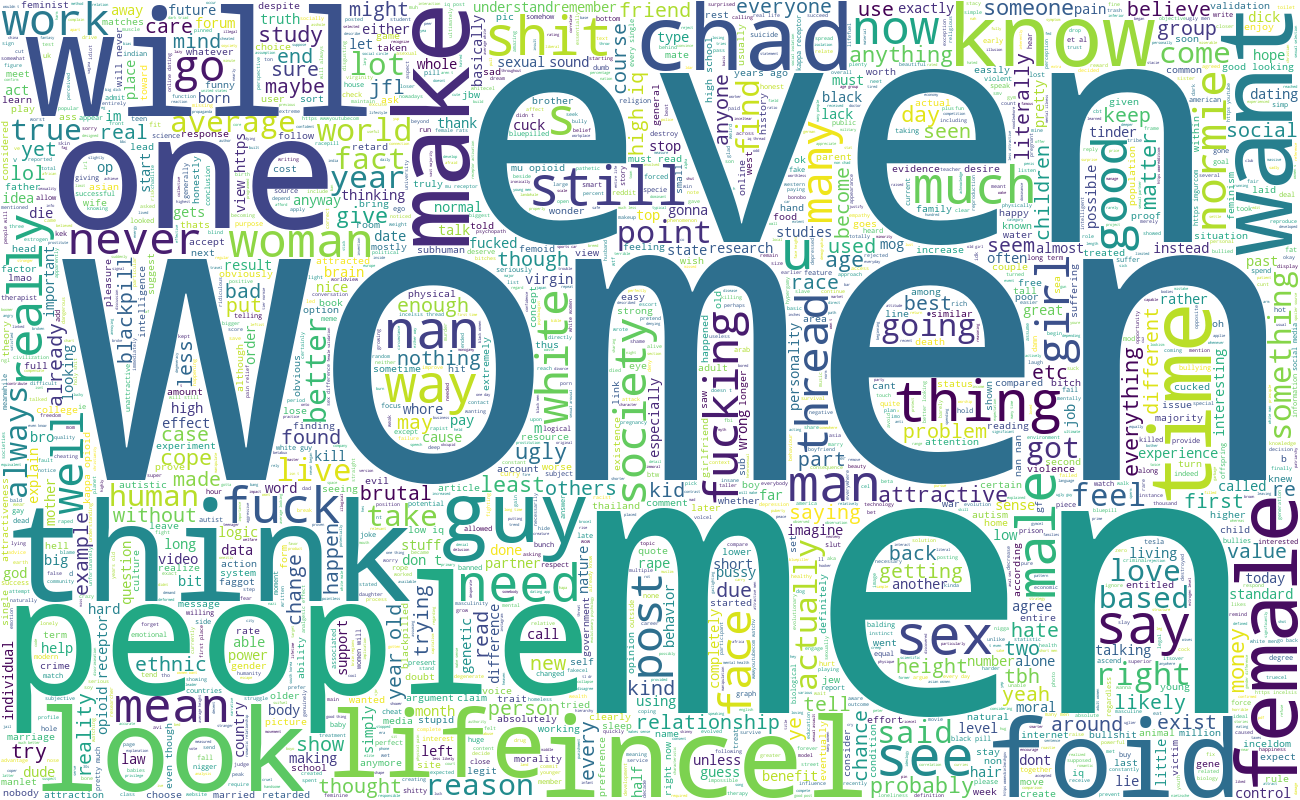
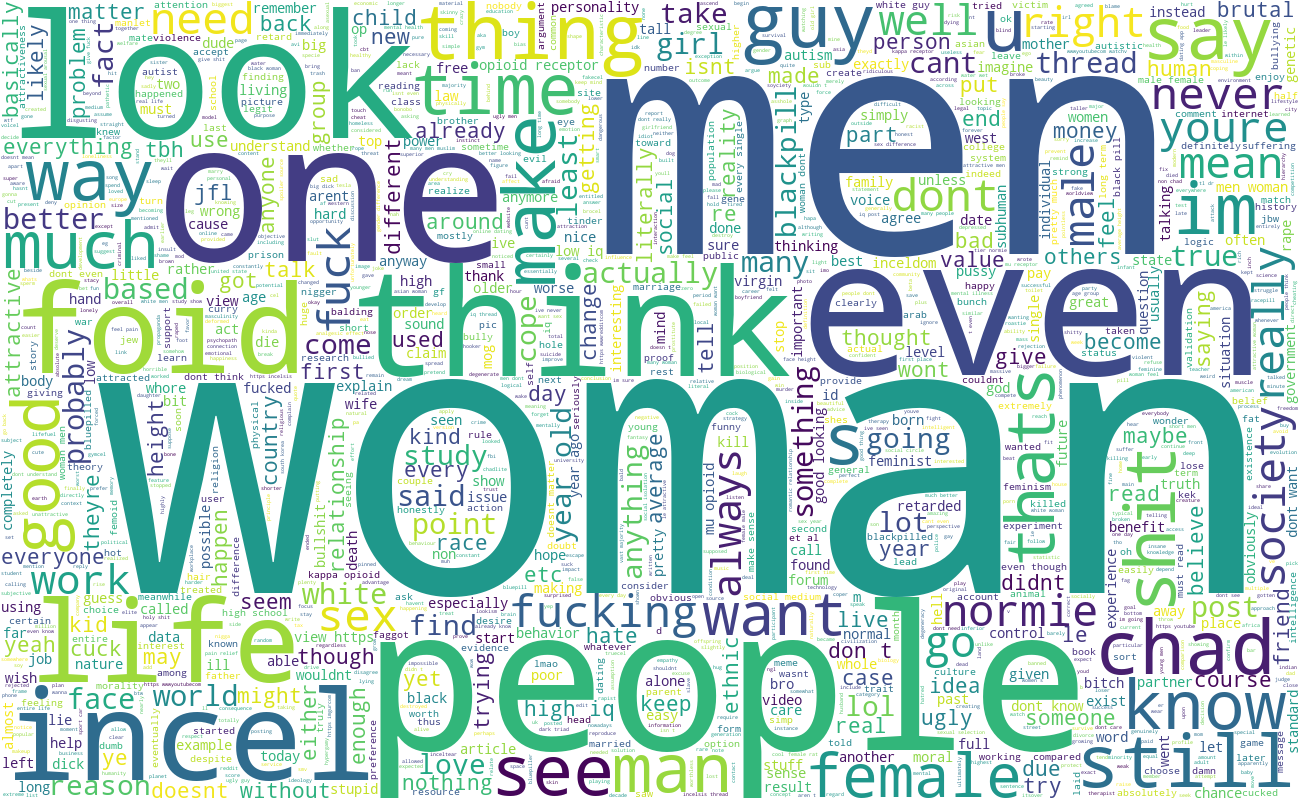
fixed nan issue

diff --git a/analyze.py b/analyze.py
@@ -1,12 +1,13 @@
+from datetime import datetime
 from pathlib import Path
 
 import numpy as np
 import pandas as pd
 
+from src.analysis.preprocess import preprocess
 from src.analysis.topic_modelling import topic_model_lda, topic_model_nmf  # type: ignore
 from src.analysis.wordcloud import wordcloud  # type: ignore
 from src.utils import load_data_from_csv
-import re
 
 pd.options.plotting.backend = "plotly"
 
@@ -24,6 +25,12 @@ if __name__ == "__main__":
         ],
     )
 
+    # Preprocess data
+    print("Preprocessing data...")
+    start = datetime.now()
+    preprocess(posts)
+    print(f"Preprocessing took: {datetime.now() - start}\n")
+
     # Compute unique authors from posts
     unique_authors = posts["author"].unique()  # type: ignore
     users = pd.DataFrame(unique_authors, columns=["author"])
@@ -39,26 +46,12 @@ if __name__ == "__main__":
     print(users.describe(include="all"))
     print(users[users["num_posts_by_user"] > 50].count())  # type: ignore
 
-    # --- Preprocess the data ---
-    # Remove punctuation
-    posts["content"] = posts["content"].map(lambda x: re.sub("[,\\.!?]", "", str(x)))  # type: ignore
-    # Remove urls
-    posts["content"] = posts["content"].map(lambda x: re.sub(r"^https?:\/\/.*[\r\n]*", "", str(x)))  # type: ignore
-    # Convert the titles to lowercase and strip leading/trailing white space
-    posts["content"] = posts["content"].map(lambda x: x.lower().strip())  # type: ignore
-
-    posts["content"] = posts["content"].replace("", np.nan)  # type: ignore
-
-    posts.dropna(  # type: ignore
-        subset=["content"],
-        inplace=True,
-    )
     # print number of nans
     # print(posts["content"].isna().sum())  # type: ignore
     # print(posts["content"].count())  # type: ignore
     # print(posts)
     # print(posts.describe())
 
-    topic_model_nmf(posts["content"])
+    # topic_model_nmf(posts["content"])
     # topic_model_lda(posts["content"])
-    # wordcloud(posts["content"])  # type: ignore
+    wordcloud(posts["content"])

diff --git a/src/analysis/preprocess.py b/src/analysis/preprocess.py
@@ -1,0 +1,53 @@
+import nltk
+import numpy as np
+import pandas as pd
+import re
+
+
+def lemmatize(text):
+    lemmatizer = nltk.WordNetLemmatizer()
+    wstokenizer = nltk.WhitespaceTokenizer()
+    return " ".join([lemmatizer.lemmatize(word) for word in wstokenizer.tokenize(text)])
+
+
+def preprocess(data: pd.DataFrame) -> None:
+    # Assure that the content column is of type string
+    data["content"] = data["content"].astype(str)
+
+    # Remove punctuation
+    data["content"] = data["content"].map(lambda x: x.replace("'", ""))
+    data["content"] = data["content"].map(lambda x: re.sub("[,\\.!?]", "", str(x)))
+    # Remove urls
+    data["content"] = data["content"].map(
+        lambda x: re.sub(r"^https?:\/\/.*[\r\n]*", "", str(x))
+    )
+    # Convert the titles to lowercase and strip leading/trailing white space
+    data["content"] = data["content"].map(lambda x: x.lower().strip())
+    # Remove stop words
+    stop_words = set(nltk.corpus.stopwords.words("english"))
+    data["content"] = data["content"].map(
+        lambda x: " ".join([word for word in x.split() if word not in stop_words])
+    )
+    # Replace empty string in content with NaN
+    data["content"] = data["content"].replace("", np.nan)
+    # Drop rows with NaN in content
+    data.dropna(
+        subset=["content"],
+        inplace=True,
+    )
+    # Lemmatize
+    data["content"] = data["content"].map(lemmatize)
+    # Replace string "nan" with NaN
+    data["content"] = data["content"].replace("nan", np.nan)
+
+
+if __name__ == "__main__":
+    # Test the preprocess function
+    data = pd.DataFrame(
+        ["man", "men"],
+        columns=["content"],
+    )
+    print(data)
+    preprocess(data)
+    wnl = nltk.WordNetLemmatizer()
+    print(data)

diff --git a/src/analysis/wordcloud.py b/src/analysis/wordcloud.py
@@ -1,12 +1,15 @@
+import numpy as np
 from pandas import Series
-from wordcloud import WordCloud  # type: ignore
+from wordcloud import WordCloud
+import nltk
 
 
-def wordcloud(data: Series) -> None:  # type: ignore
-    long_string = ",".join(list(data.dropna(inplace=False).values))  # type: ignore
+def wordcloud(data: Series) -> None:
+    # data.replace("nan", np.NaN, inplace=True)
+    long_string = ",".join(list(data.loc[data.notnull()].values))
     print("--- Generating word cloud ---")
-    print("Nans in data: ", data.isna().sum())  # type: ignore
-    print("Nans in data: ", long_string.count(" nan "))  # type: ignore
+    print("Nans in data: ", data.isna().sum())
+    print("Nans in datastring: ", long_string.count(",nan,"))
     # Create a WordCloud object
     wordcloud = WordCloud(
         background_color="white",
@@ -17,8 +20,9 @@ def wordcloud(data: Series) -> None:  # type: ignore
         width=1300,
     )
     # Generate a word cloud
-    wordcloud.generate(long_string)  # type: ignore
+    wordcloud.generate(long_string)
     # Visualize the word cloud
-    img = wordcloud.to_image()  # type: ignore
-    img.show()  # type: ignore
-    img.save("wordcloud.png")  # type: ignore
+    img = wordcloud.to_image()
+    img.show()
+    img.save("wordcloud.png")
+    print("--- Word cloud saved as wordcloud.png ---")

diff --git a/src/__init__.py b/src/__init__.py
@@ -1,2 +1,2 @@
-from src.scraper.fetcher import fetch_all  # type: ignore
-from src.scraper.forum import Website, Post, Thread, Forum  # type: ignore
+from src.scraper.fetcher import fetch_all
+from src.scraper.forum import Website, Post, Thread, Forum
